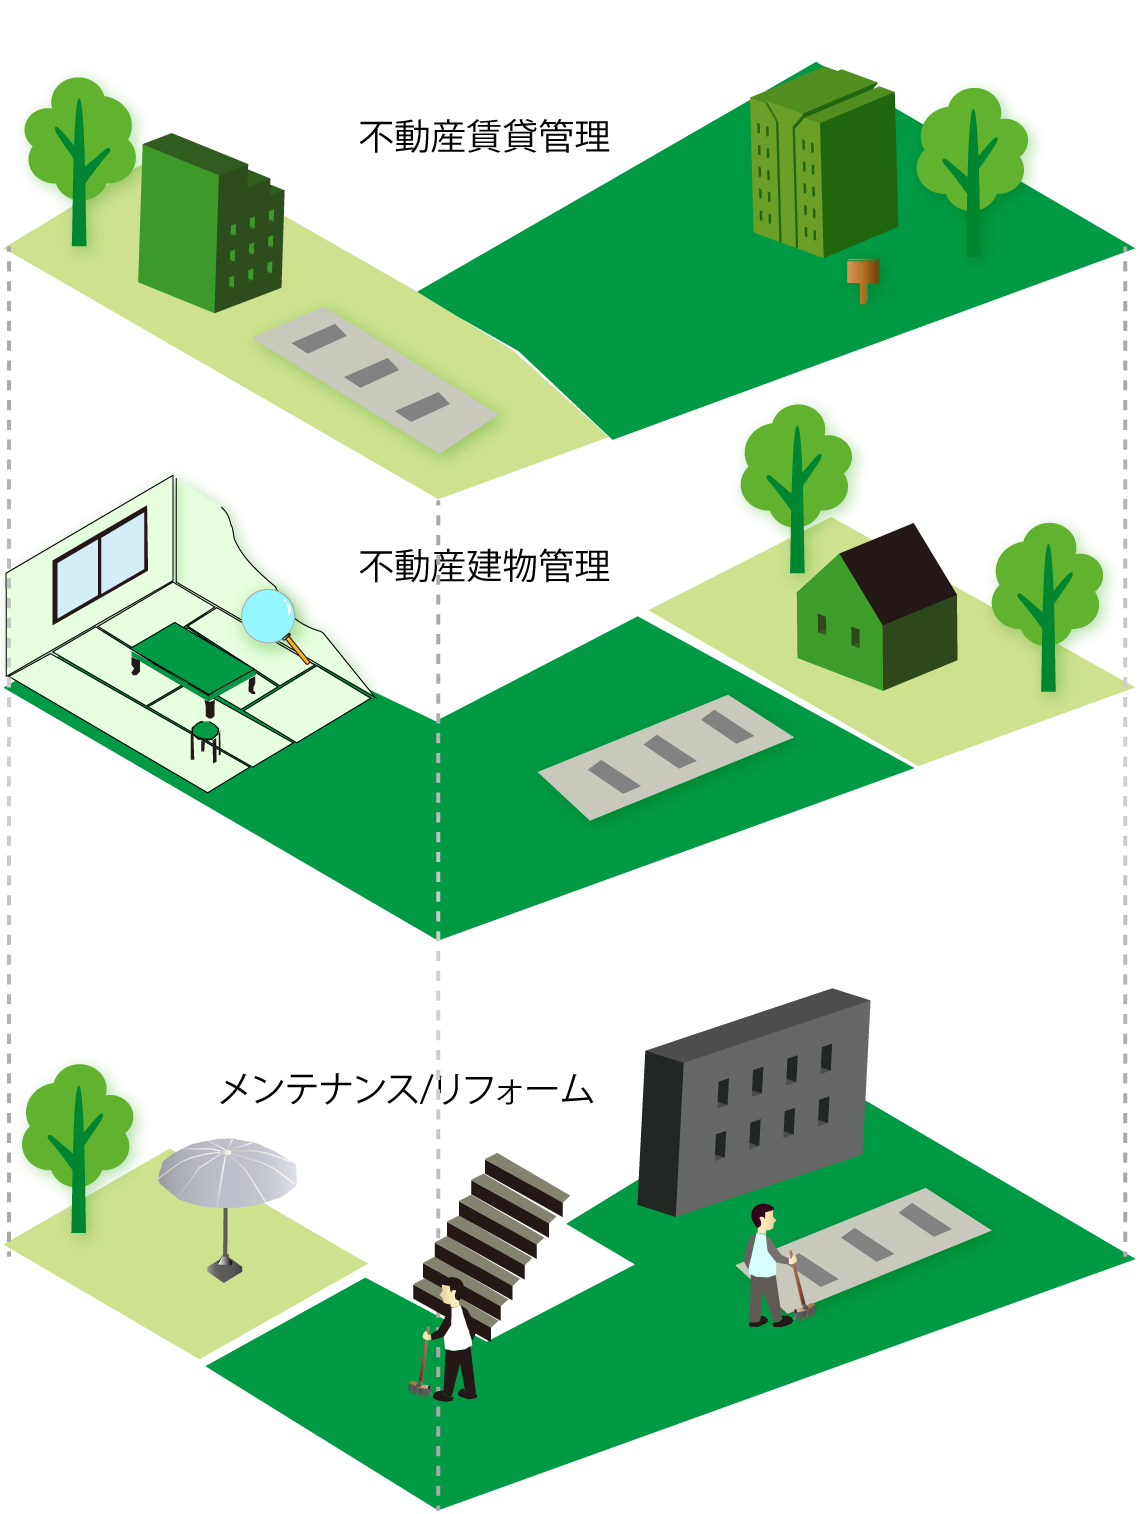
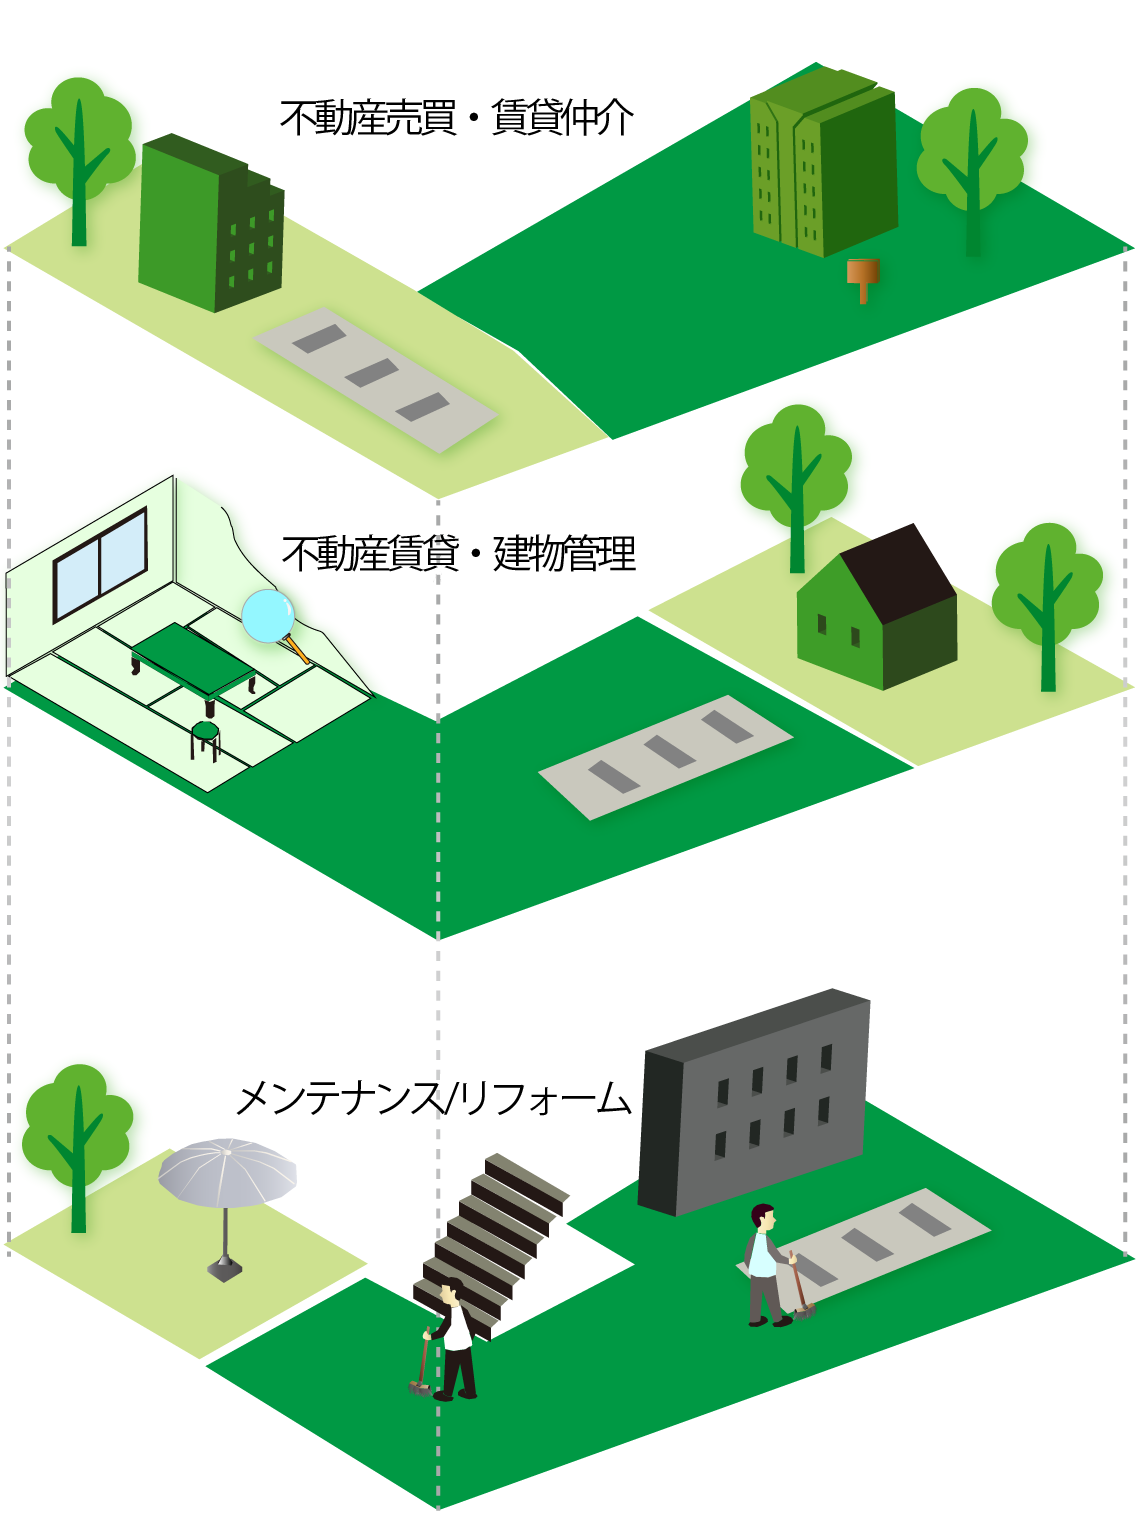
コミット

Changed region(s): [[0.2456, 0.3415, 0.5526, 0.4036], [0.2456, 0.0621, 0.5526, 0.1242], [0.1842, 0.714, 0.5526, 0.745]]

diff --git a/business/index.html b/business/index.html
@@ -88,16 +88,49 @@
                             <span class="sub">事業内容</span>弊社では、主に3つの<br>事業内容がございます
                         </h2>
                         <p>
-                            株式会社BONDSpropertyでは不動産管理として、賃貸管理・建物管理をはじめとする、不動産におけるリフォームとメンテンナンスを行っております。幅広い分野でオーナー様、お客様のご要望を叶えます。
+                            株式会社BONDSpropertyでは不動産売買・賃貸仲介をはじめ賃貸・建物管理やリフォーム/メンテンナンスなども行っております。幅広い分野でオーナー様、お客様のご要望を叶えます。
                         </p>
 
                     </div>
                 </div>
             </div>
+
+
             <!--home_floorguide-->
             <div class="wide_mid">
+
                 <div class="floor">
-                    <h2 class="st">不動産賃貸管理</h2>
+                    <h2 class="st">不動産売買・賃貸仲介</h2>
+                    <ul class="flex">
+
+                        <li class="wide_1_3">
+                            <img src="../images/floor/001.jpg" alt="建物管理">
+                            <div class="text">
+                                <h3 class="sst">不動産の有効活用</h3>
+                                <p>その土地が持っているポテンシャルを最大限に引き出すために、さまざまな視点から有効利用のご提案を行っております。</p>
+                            </div>
+                        </li>
+
+                        <li class="wide_1_3">
+                            <img src="../images/floor/002.jpg" alt="建物管理">
+                            <div class="text">
+                                <h3 class="sst">収益物件の売買仲介</h3>
+                                <p>利回りなどの表面的な数字だけでなく、建物の維持管理状況や、空室リスクなど、将来的な収益が見込める厳選した物件をご紹介しています。</p>
+                            </div>
+                        </li>
+
+                        <li class="wide_1_3">
+                            <img src="../images/floor/003.jpg" alt="建物管理">
+                            <div class="text">
+                                <h3 class="sst">土地建物の売買仲介</h3>
+                                <p>相続や住み替え、資産の買い替えなどの不動産売却または購入時には、幅広い専門知識をもったスタッフがお手伝いいたします。</p>
+                            </div>
+                        </li>
+                    </ul>
+                </div>
+
+                <div class="floor">
+                    <h2 class="st">不動産賃貸・建物管理</h2>
                     <ul class="flex">
                         <li class="wide_1_3">
                             <img src="../images/floor/1f-yoshitsu.jpg" alt="リーシング">
@@ -122,12 +155,6 @@
                             </div>
                         </li>
                     </ul>
-                </div>
-                <!--floor-->
-
-
-                <div class="floor">
-                    <h2 class="st">不動産建物管理</h2>
                     <ul class="flex">
 
                         <li class="wide_1_3">
@@ -156,6 +183,9 @@
 
                     </ul>
                 </div>
+                <!--floor-->
+
+
 
                 <div class="floor">
                     <h2 class="st">メンテナンス/リフォーム</h2>
